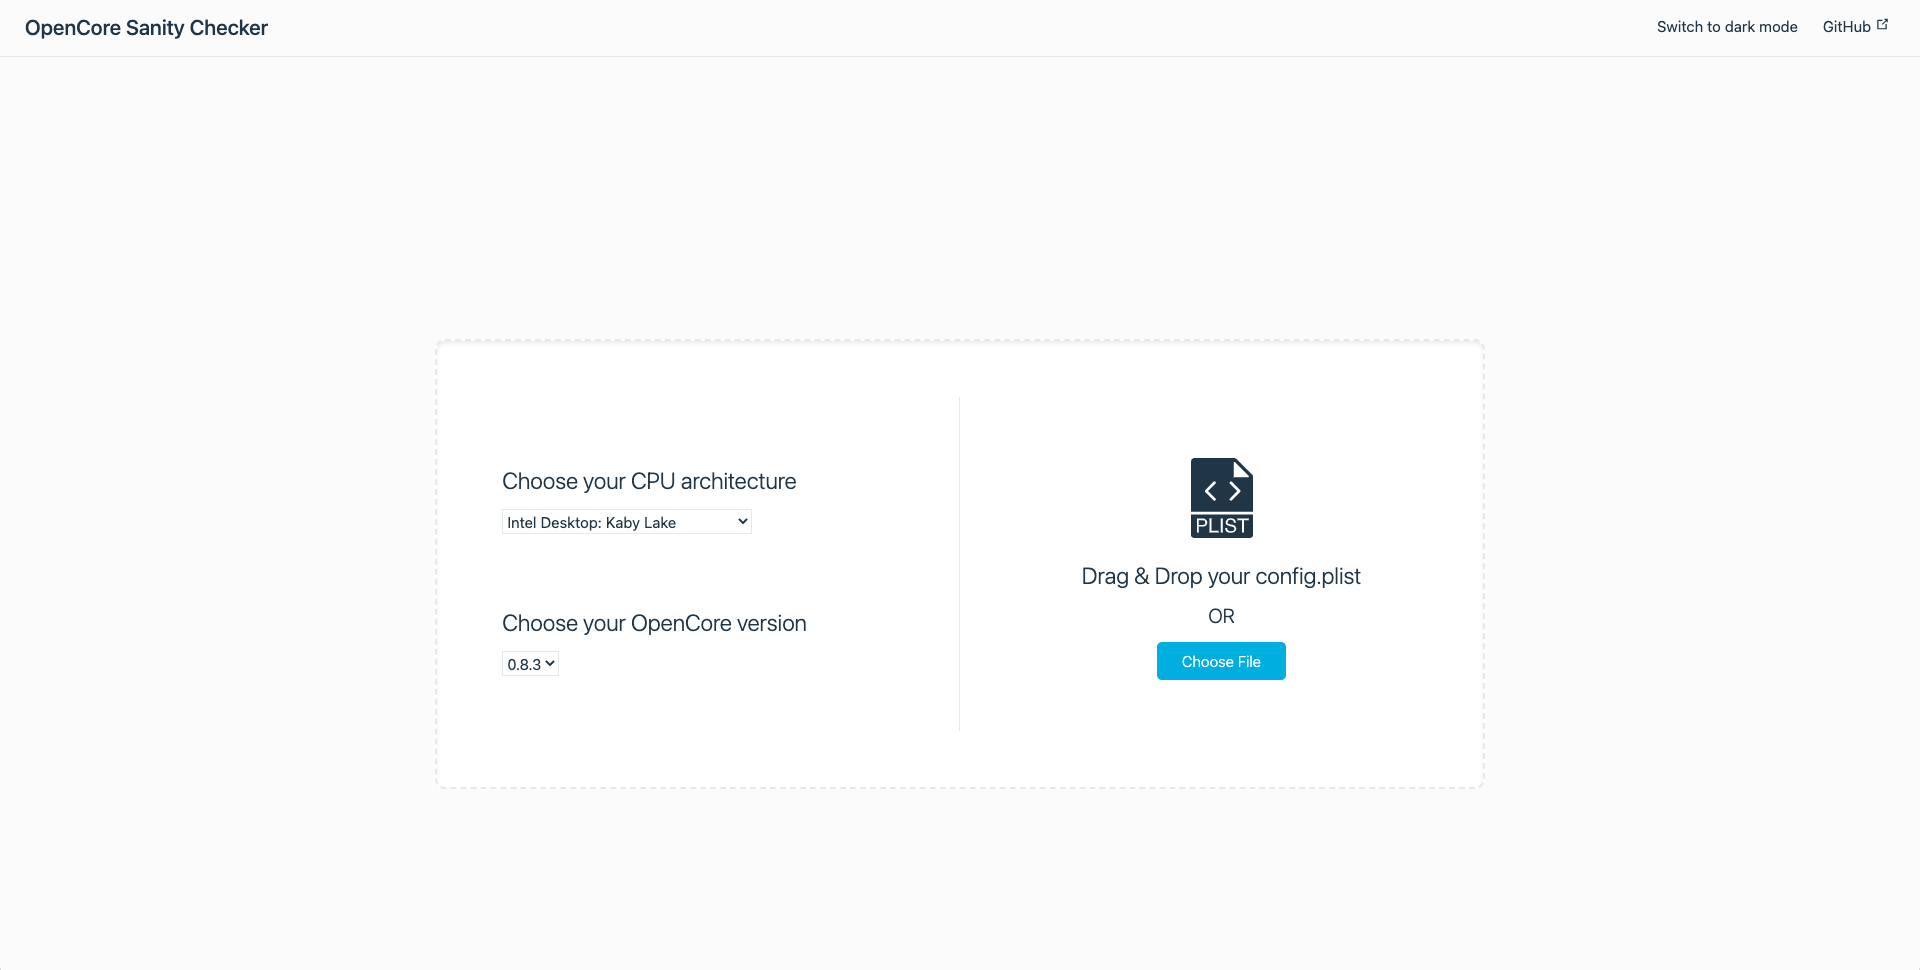
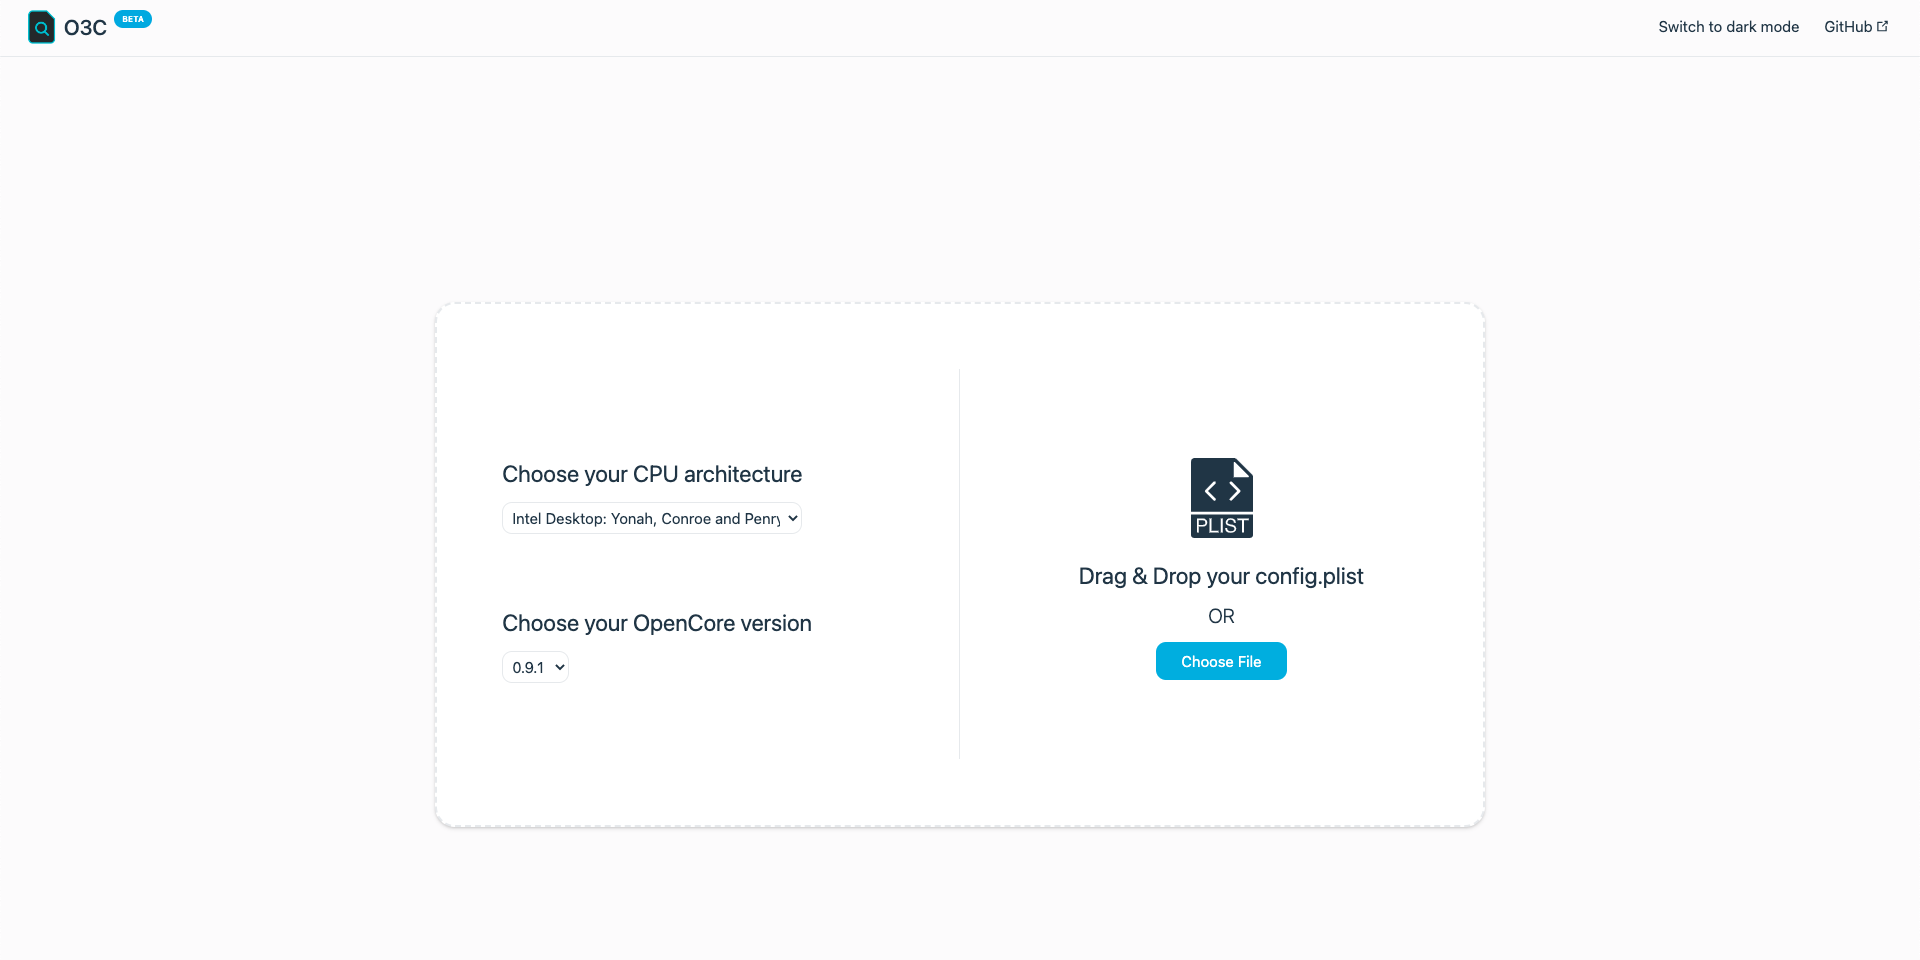
Update /blog/O3C screenshots

diff --git a/static/js/244.bundle.js b/static/js/244.bundle.js
@@ -1,1 +1,1 @@
-"use strict";(self.webpackChunkvelickovicdj=self.webpackChunkvelickovicdj||[]).push([[244],{244:function(e,t,n){n.r(t),n.d(t,{default:function(){return c}});var a=n(7294),r=n(405),l=n(9655);function o(e,t){return function(e){if(Array.isArray(e))return e}(e)||function(e,t){var n=null==e?null:"undefined"!=typeof Symbol&&e[Symbol.iterator]||e["@@iterator"];if(null!=n){var a,r,l,o,i=[],c=!0,s=!1;try{if(l=(n=n.call(e)).next,0===t){if(Object(n)!==n)return;c=!1}else for(;!(c=(a=l.call(n)).done)&&(i.push(a.value),i.length!==t);c=!0);}catch(e){s=!0,r=e}finally{try{if(!c&&null!=n.return&&(o=n.return(),Object(o)!==o))return}finally{if(s)throw r}}return i}}(e,t)||function(e,t){if(e){if("string"==typeof e)return i(e,t);var n=Object.prototype.toString.call(e).slice(8,-1);return"Object"===n&&e.constructor&&(n=e.constructor.name),"Map"===n||"Set"===n?Array.from(e):"Arguments"===n||/^(?:Ui|I)nt(?:8|16|32)(?:Clamped)?Array$/.test(n)?i(e,t):void 0}}(e,t)||function(){throw new TypeError("Invalid attempt to destructure non-iterable instance.\nIn order to be iterable, non-array objects must have a [Symbol.iterator]() method.")}()}function i(e,t){(null==t||t>e.length)&&(t=e.length);for(var n=0,a=new Array(t);n<t;n++)a[n]=e[n];return a}function c(){var e=o((0,a.useState)(void 0),2),t=e[0],n=e[1],i=o((0,a.useState)(void 0),2),c=i[0],s=i[1];return(0,a.useEffect)((function(){fetch("/blog/library.json").then((function(e){return e.json()})).then((function(e){var t=e.posts.find((function(e){return e.pinned}));s(null!=t?t:e.posts.slice(-1).pop()),n(e.posts.slice(-3).reverse())}))}),[]),a.createElement(a.Fragment,null,a.createElement(r.ql,null,a.createElement("title",null,"Home | @velickovicdj"),a.createElement("meta",{property:"og:title",content:"Home | @velickovicdj"}),a.createElement("meta",{name:"description",content:"Welcome to my website! I'm a passionate software developer with expertise in various programming languages and technologies, and this site is my digital playground. Here, you'll find a collection of my personal projects, ranging from web development and machine learning to data visualization and game design. I also share my thoughts and insights on various tech topics through my blog. So, whether you're a developer, a tech enthusiast, or simply curious, I invite you to explore my website and join me on this exciting journey of learning and creating!"}),a.createElement("link",{rel:"canonical",href:"/"})),a.createElement("div",{className:"container"},a.createElement("div",{className:"wrapper"},a.createElement("div",{className:"section-container normal"},a.createElement("div",{className:"section-center"},a.createElement("div",{className:"section"},a.createElement("div",{className:"section-title"},a.createElement("h1",null,"Blog Posts")),a.createElement("div",{className:"section-content grid"},void 0!==c&&a.createElement(l.rU,{to:"/blog/"+c.url},a.createElement("div",{className:"post pinned"},a.createElement("label",{className:"post-count"},c.pinned?"📌 Pinned":"🌱 Latest"," Post"),a.createElement("h2",null,c.name,a.createElement("span",{className:"arrow right"})),a.createElement("label",{className:"post-count"},c.date))),a.createElement("div",{className:"row"},void 0!==t&&t.map((function(e,t){return e.url!==c.url&&a.createElement(l.rU,{key:t,to:"/blog/"+e.url},a.createElement("div",{className:"post"},a.createElement("label",{className:"post-count"},e.date),a.createElement("h3",null,e.name,a.createElement("span",{className:"arrow right"}))))})))),a.createElement(l.rU,{to:"/blog"},a.createElement("div",{className:"button"},a.createElement("label",null,"Browse all posts")))),a.createElement("div",{className:"section"},a.createElement("div",{className:"section-title"},a.createElement("h2",null,"Looking for something else?")),a.createElement("div",{className:"section-content"},a.createElement("a",{href:"/O3C/"},a.createElement("div",{className:"post"},a.createElement("h3",null,"OpenCore Sanity Checker"),a.createElement("p",null,"For validating config.plist",a.createElement("span",{className:"arrow right"})))))))))))}}}]);
+"use strict";(self.webpackChunkvelickovicdj=self.webpackChunkvelickovicdj||[]).push([[244],{244:function(e,t,n){n.r(t),n.d(t,{default:function(){return c}});var a=n(7294),r=n(405),l=n(9655);function o(e,t){return function(e){if(Array.isArray(e))return e}(e)||function(e,t){var n=null==e?null:"undefined"!=typeof Symbol&&e[Symbol.iterator]||e["@@iterator"];if(null!=n){var a,r,l,o,i=[],c=!0,s=!1;try{if(l=(n=n.call(e)).next,0===t){if(Object(n)!==n)return;c=!1}else for(;!(c=(a=l.call(n)).done)&&(i.push(a.value),i.length!==t);c=!0);}catch(e){s=!0,r=e}finally{try{if(!c&&null!=n.return&&(o=n.return(),Object(o)!==o))return}finally{if(s)throw r}}return i}}(e,t)||function(e,t){if(e){if("string"==typeof e)return i(e,t);var n=Object.prototype.toString.call(e).slice(8,-1);return"Object"===n&&e.constructor&&(n=e.constructor.name),"Map"===n||"Set"===n?Array.from(e):"Arguments"===n||/^(?:Ui|I)nt(?:8|16|32)(?:Clamped)?Array$/.test(n)?i(e,t):void 0}}(e,t)||function(){throw new TypeError("Invalid attempt to destructure non-iterable instance.\nIn order to be iterable, non-array objects must have a [Symbol.iterator]() method.")}()}function i(e,t){(null==t||t>e.length)&&(t=e.length);for(var n=0,a=new Array(t);n<t;n++)a[n]=e[n];return a}function c(){var e=o((0,a.useState)(void 0),2),t=e[0],n=e[1],i=o((0,a.useState)(void 0),2),c=i[0],s=i[1];return(0,a.useEffect)((function(){fetch("/blog/library.json").then((function(e){return e.json()})).then((function(e){var t=e.posts.find((function(e){return e.pinned}));s(null!=t?t:e.posts.slice(-1).pop()),n(e.posts.slice(-3).reverse())}))}),[]),a.createElement(a.Fragment,null,a.createElement(r.ql,null,a.createElement("title",null,"Home | @velickovicdj"),a.createElement("meta",{property:"og:title",content:"Home | @velickovicdj"}),a.createElement("meta",{name:"description",content:"Welcome to my website! I'm a passionate software developer with expertise in various programming languages and technologies, and this site is my digital playground. Here, you'll find a collection of my personal projects, ranging from web development and machine learning to data visualization and game design. I also share my thoughts and insights on various tech topics through my blog. So, whether you're a developer, a tech enthusiast, or simply curious, I invite you to explore my website and join me on this exciting journey of learning and creating!"}),a.createElement("link",{rel:"canonical",href:"/"})),a.createElement("div",{className:"container"},a.createElement("div",{className:"wrapper"},a.createElement("div",{className:"section-container normal"},a.createElement("div",{className:"section-center"},a.createElement("div",{className:"section"},a.createElement("div",{className:"section-title"},a.createElement("h1",null,"Blog Posts")),a.createElement("div",{className:"section-content grid"},void 0!==c&&a.createElement(l.rU,{to:"/blog/"+c.url},a.createElement("div",{className:"post pinned"},a.createElement("label",{className:"post-count"},c.pinned?"📌 Pinned":"🌱 Latest"," Post"),a.createElement("h2",null,c.name,a.createElement("span",{className:"arrow right"})),a.createElement("label",{className:"post-count"},c.date))),a.createElement("div",{className:"row"},void 0!==t&&t.map((function(e,t){return e.url!==c.url&&a.createElement(l.rU,{key:t,to:"/blog/"+e.url},a.createElement("div",{className:"post"},a.createElement("label",{className:"post-count"},e.date),a.createElement("h3",null,e.name,a.createElement("span",{className:"arrow right"}))))})))),a.createElement(l.rU,{to:"/blog"},a.createElement("div",{className:"button"},a.createElement("label",null,"Browse all posts")))),a.createElement("div",{className:"section"},a.createElement("div",{className:"section-title"},a.createElement("h2",null,"Looking for something else?")),a.createElement("div",{className:"section-content"},a.createElement("a",{href:"/O3C/"},a.createElement("div",{className:"post"},a.createElement("h3",null,"O3C"),a.createElement("p",null,"For validating OpenCore config.plist files",a.createElement("span",{className:"arrow right"})))))))))))}}}]);
